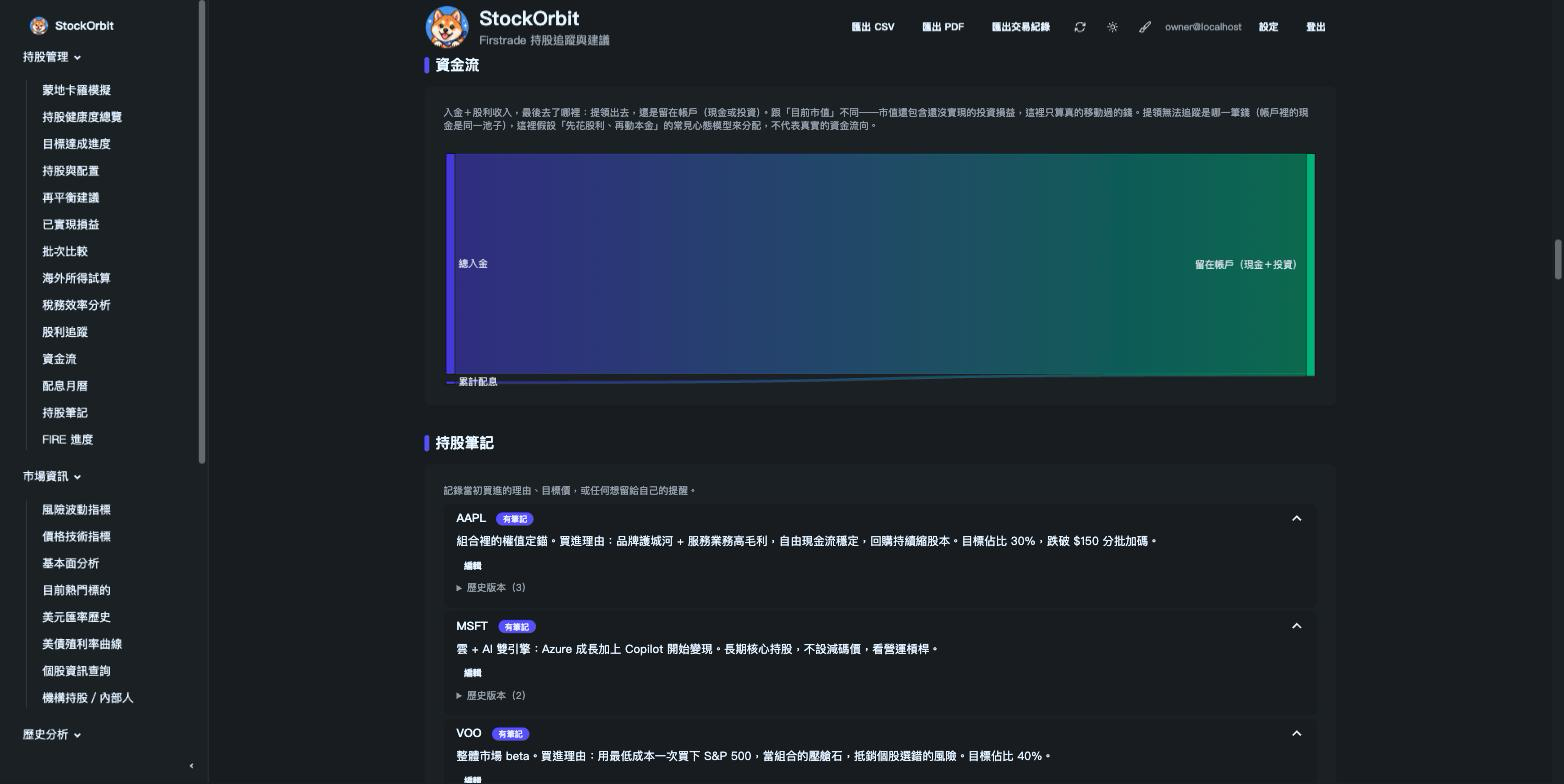
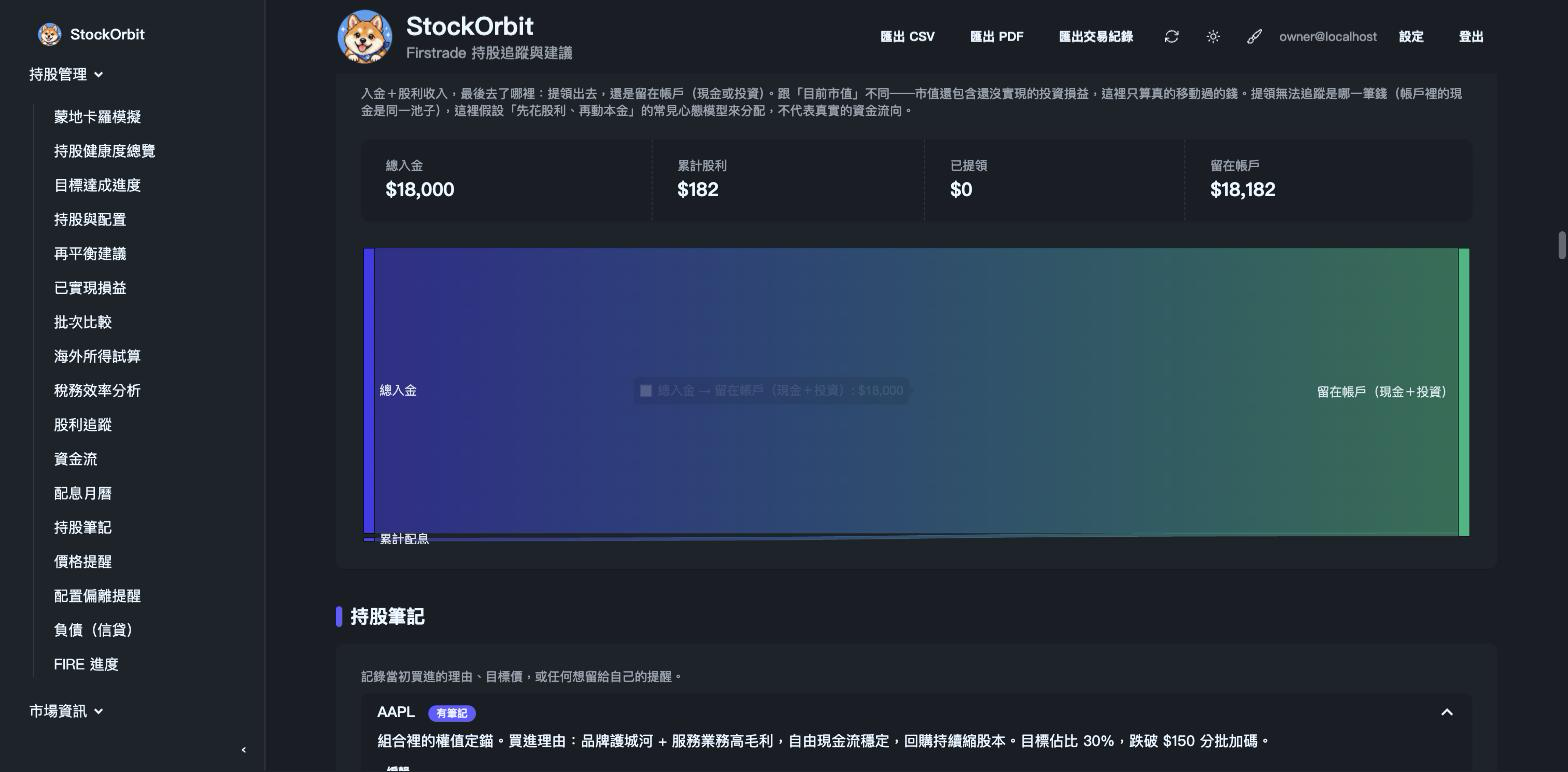
資金流 Sankey 圖補上文字統計（issue #334）
股利/提領相對總入金很小的帳戶，流向圖會收斂成幾乎只有一條線，資訊
量很低、數字要 hover 才看得到（使用者截圖回報）。

API（/api/cash-flow-sankey）其實本來就有回傳 total_deposits／
total_dividends／total_withdrawals，前端卻只用了 flows 畫圖，完全
沒用上這三個數字。補上一排文字統計（總入金／累計股利／已提領／
留在帳戶），不管流向圖本身多簡單，數字一眼就看得到。

diff --git a/app/templates/sections/cash_flow_sankey.html b/app/templates/sections/cash_flow_sankey.html
@@ -7,6 +7,7 @@
         入金＋股利收入，最後去了哪裡：提領出去，還是留在帳戶（現金或投資）。跟「目前市值」不同——市值還包含還沒實現的投資損益，這裡只算真的移動過的錢。提領無法追蹤是哪一筆錢（帳戶裡的現金是同一池子），這裡假設「先花股利、再動本金」的常見心態模型來分配，不代表真實的資金流向。
       </p>
       <div id="cash-flow-sankey-error" class="alert alert-error text-sm hidden mt-2"></div>
+      <div id="cash-flow-stats"></div>
       <div class="h-72 mt-4"><canvas id="cashFlowSankeyChart"></canvas></div>
     </div>
   </div>
@@ -17,7 +18,9 @@ let cashFlowSankeyChart = null;
 
 async function loadCashFlowSankey() {
   const errorBox = document.getElementById('cash-flow-sankey-error');
+  const statsBox = document.getElementById('cash-flow-stats');
   errorBox.classList.add('hidden');
+  statsBox.innerHTML = '';
 
   const res = await fetch('/api/cash-flow-sankey');
   const data = await res.json();
@@ -31,6 +34,30 @@ async function loadCashFlowSankey() {
     errorBox.classList.remove('hidden');
     return;
   }
+
+  // 流向圖只有一兩條線時（例如還沒提領過、股利也很少）幾乎看不出資訊，
+  // 數字用文字直接列出來，不用靠 hover 才看得到。
+  const fmt = (v) => `$${Math.round(v).toLocaleString('en-US')}`;
+  const remaining = data.total_deposits + data.total_dividends - data.total_withdrawals;
+  statsBox.innerHTML = `
+    <div class="stats stats-vertical sm:stats-horizontal shadow bg-base-200 w-full mt-3">
+      <div class="stat">
+        <div class="stat-title">總入金</div>
+        <div class="stat-value text-lg">${fmt(data.total_deposits)}</div>
+      </div>
+      <div class="stat">
+        <div class="stat-title">累計股利</div>
+        <div class="stat-value text-lg">${fmt(data.total_dividends)}</div>
+      </div>
+      <div class="stat">
+        <div class="stat-title">已提領</div>
+        <div class="stat-value text-lg">${fmt(data.total_withdrawals)}</div>
+      </div>
+      <div class="stat">
+        <div class="stat-title">留在帳戶</div>
+        <div class="stat-value text-lg">${fmt(remaining)}</div>
+      </div>
+    </div>`;
 
   if (cashFlowSankeyChart) cashFlowSankeyChart.destroy();
   cashFlowSankeyChart = new Chart(document.getElementById('cashFlowSankeyChart'), {

diff --git a/README.md b/README.md
@@ -87,9 +87,9 @@
 
 #### 資金流 Sankey 圖
 
-![資金流 Sankey 圖：入金/股利最後去了提領還是留在帳戶](docs/screenshot-cash-flow-sankey.png)
+![資金流 Sankey 圖：總入金/累計股利/已提領/留在帳戶四個數字，加上入金/股利最後去了提領還是留在帳戶的流向圖](docs/screenshot-cash-flow-sankey.png)
 
-入金＋股利收入最後去了哪裡——提領出去，還是留在帳戶（現金＋投資）。跟「目前市值」不同（不含未實現投資損益）。提領無法追蹤是哪一筆錢，用「先花股利、再動本金」的心態模型分配，明確標示是簡化假設，不代表真實資金流向。
+入金＋股利收入最後去了哪裡——提領出去，還是留在帳戶（現金＋投資）。跟「目前市值」不同（不含未實現投資損益）。提領無法追蹤是哪一筆錢，用「先花股利、再動本金」的心態模型分配，明確標示是簡化假設，不代表真實資金流向。圖表上方另外列出總入金／累計股利／已提領／留在帳戶四個數字，帳戶股利或提領金額相對總入金很小、流向圖收斂成幾乎一條線時，數字一樣看得清楚，不用靠 hover。
 
 #### 配息月曆
 

diff --git a/CHANGELOG.md b/CHANGELOG.md
@@ -4,6 +4,10 @@
 
 摘要版功能總覽請看 [README](README.md#功能)。
 
+## 2026-09-30（資金流圖補上文字統計）
+
+- 資金流 Sankey 圖補上文字統計（issue #334，使用者截圖回報）：股利/提領相對總入金很小的帳戶，流向圖會收斂成幾乎只有一條線，資訊量很低、數字要 hover 才看得到。API 其實本來就有回傳 `total_deposits`／`total_dividends`／`total_withdrawals`，前端卻只用了 `flows` 畫圖，完全沒用上這三個數字——補上一排文字統計（總入金／累計股利／已提領／留在帳戶），不管流向圖本身多簡單，數字一眼就看得到
+
 ## 2026-09-30（現金加碼支援 TWD）
 
 - 「只有一筆閒置現金」加碼查詢新增幣別選單（issue #332）：可以直接輸入新台幣，用最近一次同步時存的 USD/TWD 參考匯率（跟頁首「總市值 (TWD)」卡片同一來源，不用再打一次匯率 API）自動換算成美金再查詢，換算後金額顯示出來供核對。沒有可用匯率時擋下來提示改用 USD，不會悄悄用錯的數字算
